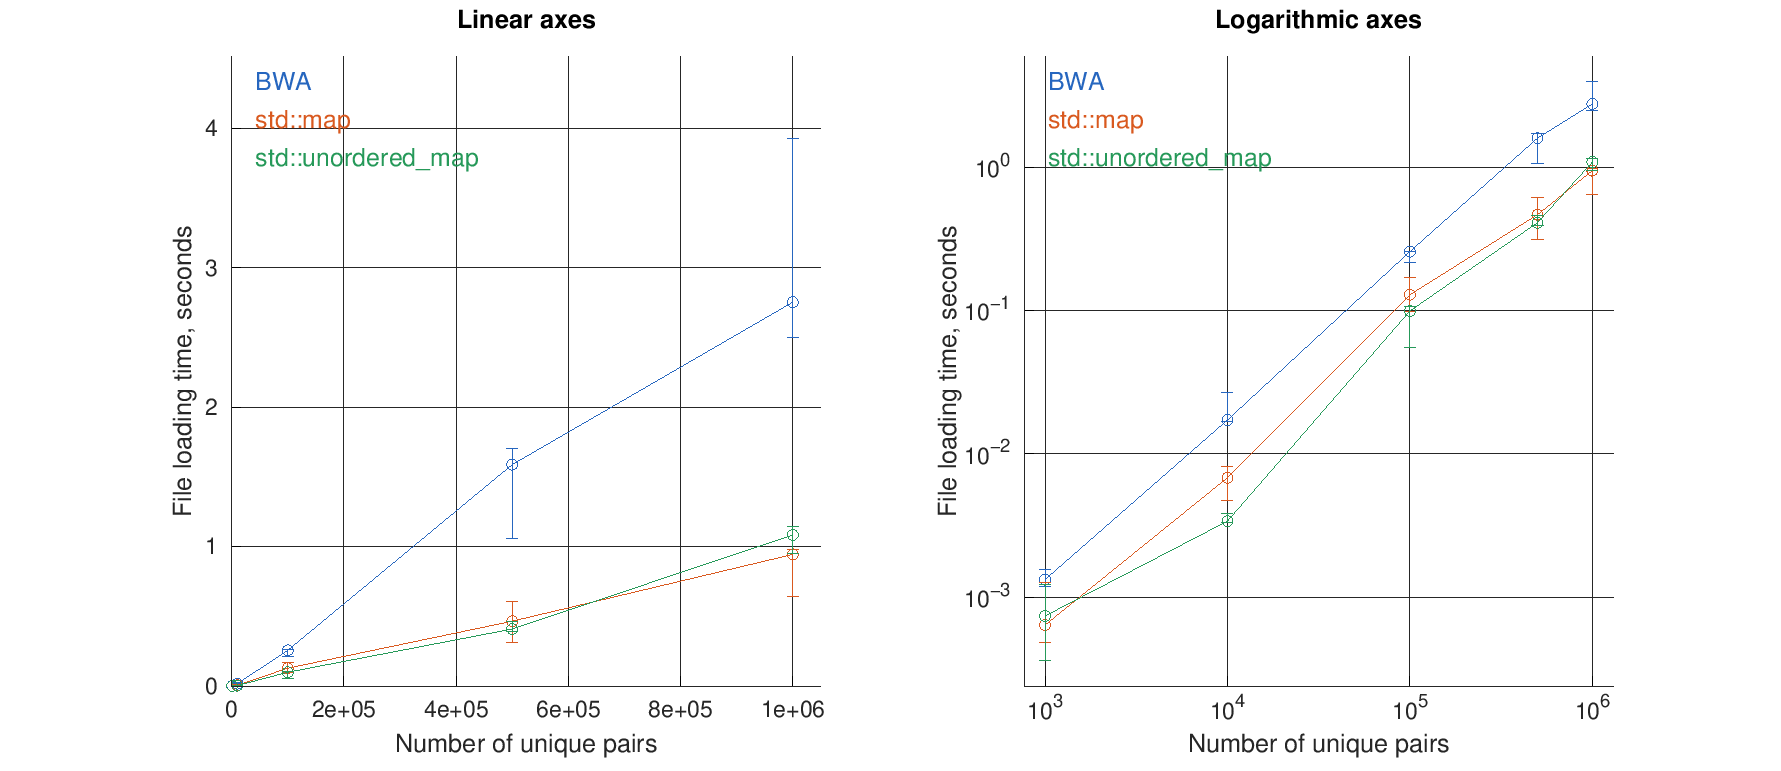
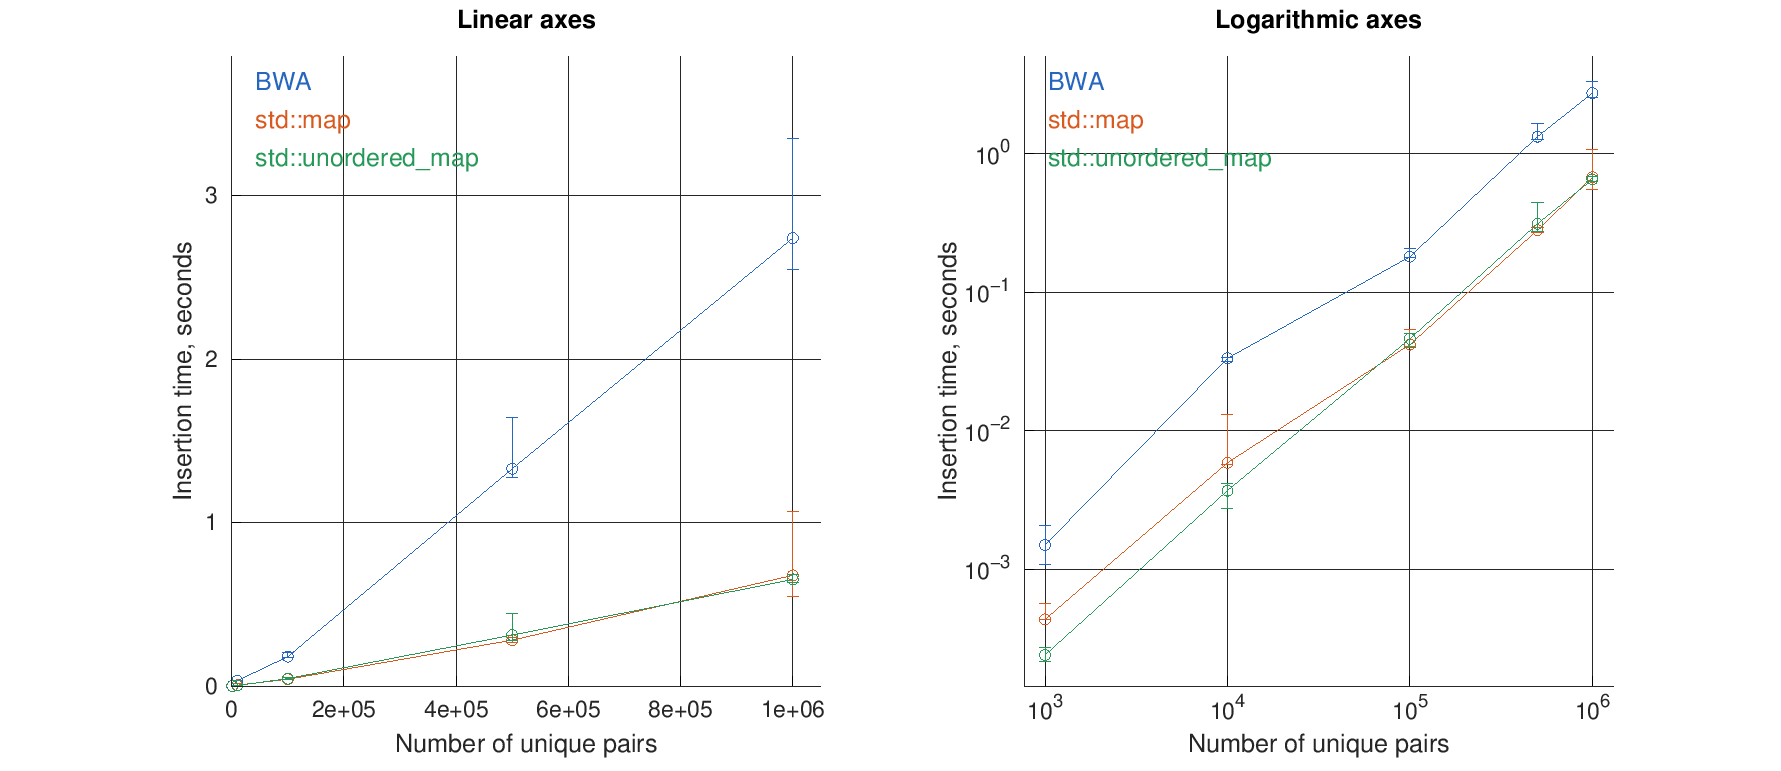
move file reading outside benchmark timing
and change all timeouts in test to 10 secs

diff --git a/Lab5CPP/lab5.cpp b/Lab5CPP/lab5.cpp
@@ -1,4 +1,5 @@
 #include "bwa.h"
+#include "vector.h"
 #include <chrono>
 #include <fstream>
 #include <iostream>
@@ -9,6 +10,13 @@
 using namespace std;
 
 typedef chrono::steady_clock Clock;
+
+struct Entry {
+    string key;
+    string value;
+};
+
+typedef Vector<Entry> InputData;
 
 int main(int argc, char **argv){
     if (argc != 2 && argc != 3) {
@@ -26,6 +34,28 @@ int main(int argc, char **argv){
         first = argument[0] - '0';
     }
 
+    InputData data;
+    ifstream input(argv[1]);
+    if (!input) {
+        cerr << "file failed to open\n";
+        return 1;
+    }
+
+    Entry entry;
+    while (input >> entry.key) {
+        if (!(input >> entry.value)) {
+            cerr << "cant read value\n";
+            return 1;
+        }
+        data.resize(data.size() + 1);
+        data.at(data.size() - 1) = entry;
+    }
+    if (!input.eof() || input.bad()) {
+        cerr << "file read failed\n";
+        return 1;
+    }
+    input.close();
+
     cout << "container,pairs,size,seconds\n";
 
     for (int step = 0; step < 3; step++) {
@@ -39,39 +69,18 @@ int main(int argc, char **argv){
         if (type == 1) name = "map";
         if (type == 2) name = "unordered_map";
 
-        size_t pairs = 0;
         size_t size = 0;
-        string key;
-        string value;
-
         auto start = Clock::now();
 
-        ifstream input(argv[1]);
-        if (!input) {
-            cerr << "file failed to open\n";
-            return 1;
-        }
-
-        while (input >> key) {
-            if (!(input >> value)) {
-                cerr << "cant read value\n";
-                return 1;
-            }
-
+        for (size_t i = 0; i < data.size(); i++) {
+            const Entry &pair = data.at(i);
             if (type == 0) {
-                bwa.insert(key, value);
+                bwa.insert(pair.key, pair.value);
             } else if (type == 1) {
-                ordered[key] = value;
+                ordered[pair.key] = pair.value;
             } else {
-                hashed[key] = value;
+                hashed[pair.key] = pair.value;
             }
-
-            pairs++;
-        }
-
-        if (!input.eof() || input.bad()) {
-            cerr << "file read failed\n";
-            return 1;
         }
 
         auto finish = Clock::now();
@@ -82,7 +91,7 @@ int main(int argc, char **argv){
         if (type == 1) size = ordered.size();
         if (type == 2) size = hashed.size();
 
-        cout << name << ',' << pairs << ','
+        cout << name << ',' << data.size() << ','
              << size << ',' << seconds << '\n';
     }
 

diff --git a/Lab5CPP/plot_results.m b/Lab5CPP/plot_results.m
@@ -21,7 +21,6 @@ function plot_results(csv_file, output_dir)
     labels = {'BWA', 'std::map', 'std::unordered_map'};
     colors = [0.15 0.40 0.75; 0.85 0.35 0.12; 0.15 0.60 0.35];
 
-    % Total file loading time: median and min/max of measured runs.
     fig = figure('visible', 'off', 'position', [100 100 1200 520]);
     graphics_toolkit(fig, 'gnuplot');
     for panel = 1:2
@@ -48,7 +47,7 @@ function plot_results(csv_file, output_dir)
             ylim([0 max(data{5}) * 1.15]);
         end
         xlabel('Number of unique pairs');
-        ylabel('File loading time, seconds');
+        ylabel('Insertion time, seconds');
         grid on;
         for i = 1:3
             text(0.04, 0.96 - (i-1)*0.06, labels{i}, 'units', 'normalized', ...
@@ -59,7 +58,6 @@ function plot_results(csv_file, output_dir)
     print(fig, fullfile(output_dir, 'loading_time.png'), '-dpng', '-r150');
     close(fig);
 
-    % Normalization helps compare growth across different input sizes.
     fig = figure('visible', 'off', 'position', [100 100 850 520]);
     graphics_toolkit(fig, 'gnuplot');
     hold on;
@@ -73,8 +71,8 @@ function plot_results(csv_file, output_dir)
     end
     set(gca, 'xscale', 'log', 'fontsize', 11);
     xlabel('Number of unique pairs');
-    ylabel('Loading time per pair, microseconds');
-    title('Median loading time / number of pairs');
+    ylabel('Insertion time per pair, microseconds');
+    title('Median insertion time / number of pairs');
     for i = 1:3
         text(0.04, 0.96 - (i-1)*0.06, labels{i}, 'units', 'normalized', ...
              'color', colors(i,:), 'fontsize', 12, 'interpreter', 'none');

diff --git a/Lab5CPP/benchmark.py b/Lab5CPP/benchmark.py
@@ -8,7 +8,7 @@ import subprocess
 
 
 def main():
-    parser = argparse.ArgumentParser(description="Compare file loading into three containers")
+    parser = argparse.ArgumentParser(description="Compare insertion of preloaded pairs into three containers")
     parser.add_argument("--generator", type=Path, required=True)
     parser.add_argument("--program", type=Path, required=True)
     parser.add_argument("--output", type=Path, default=Path("benchmark-results"))
@@ -39,8 +39,6 @@ def main():
         for size in sorted(set(args.sizes)):
             filename = data / f"input_{size}.txt"
             subprocess.run([str(generator), str(filename), str(size)], check=True, timeout=120)
-
-            # Warm up file caching. Generation and warm-up are not measured runs.
             subprocess.run([str(program), str(filename)], check=True,
                            stdout=subprocess.DEVNULL, timeout=300)
             times = {name: [] for name in names}
